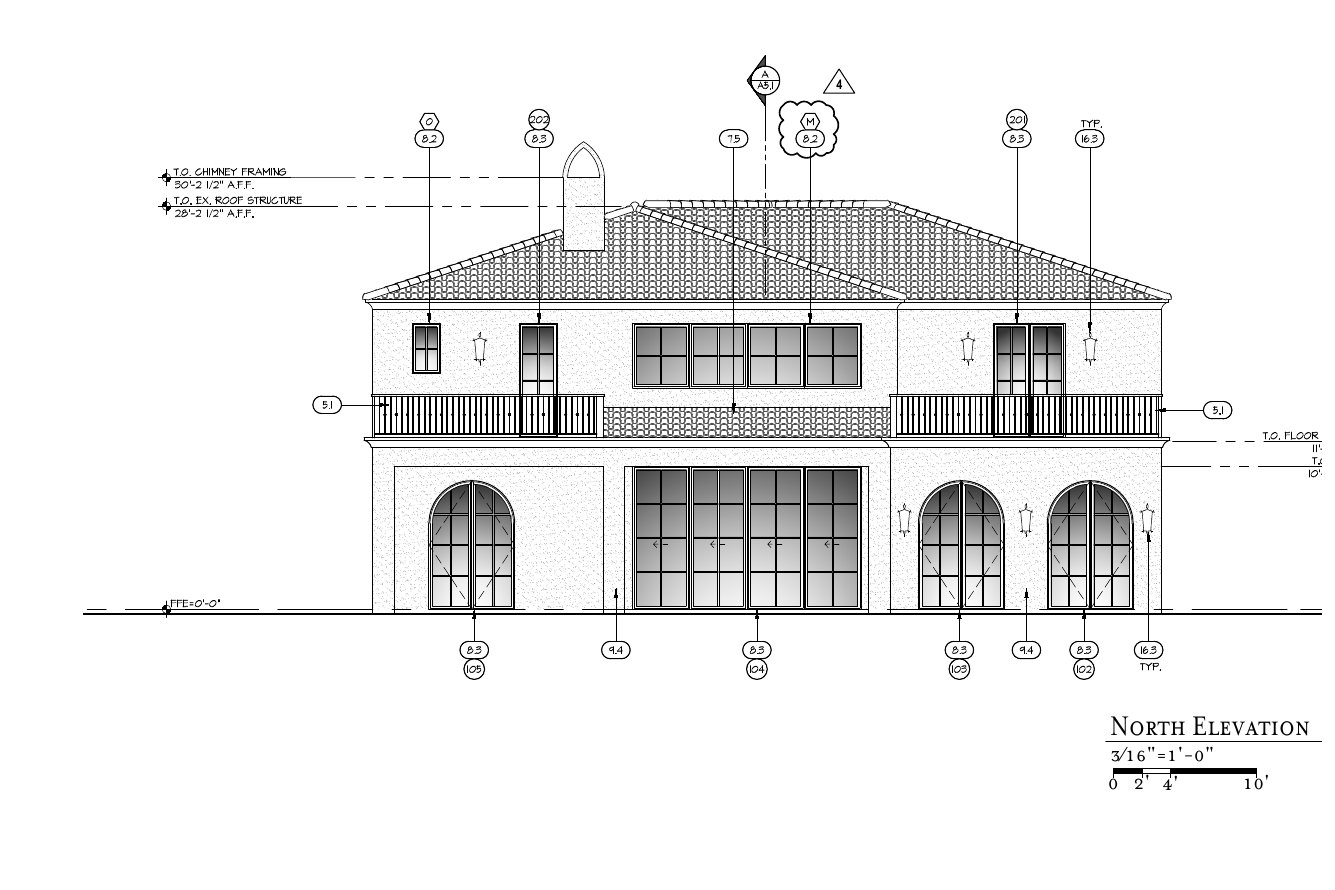
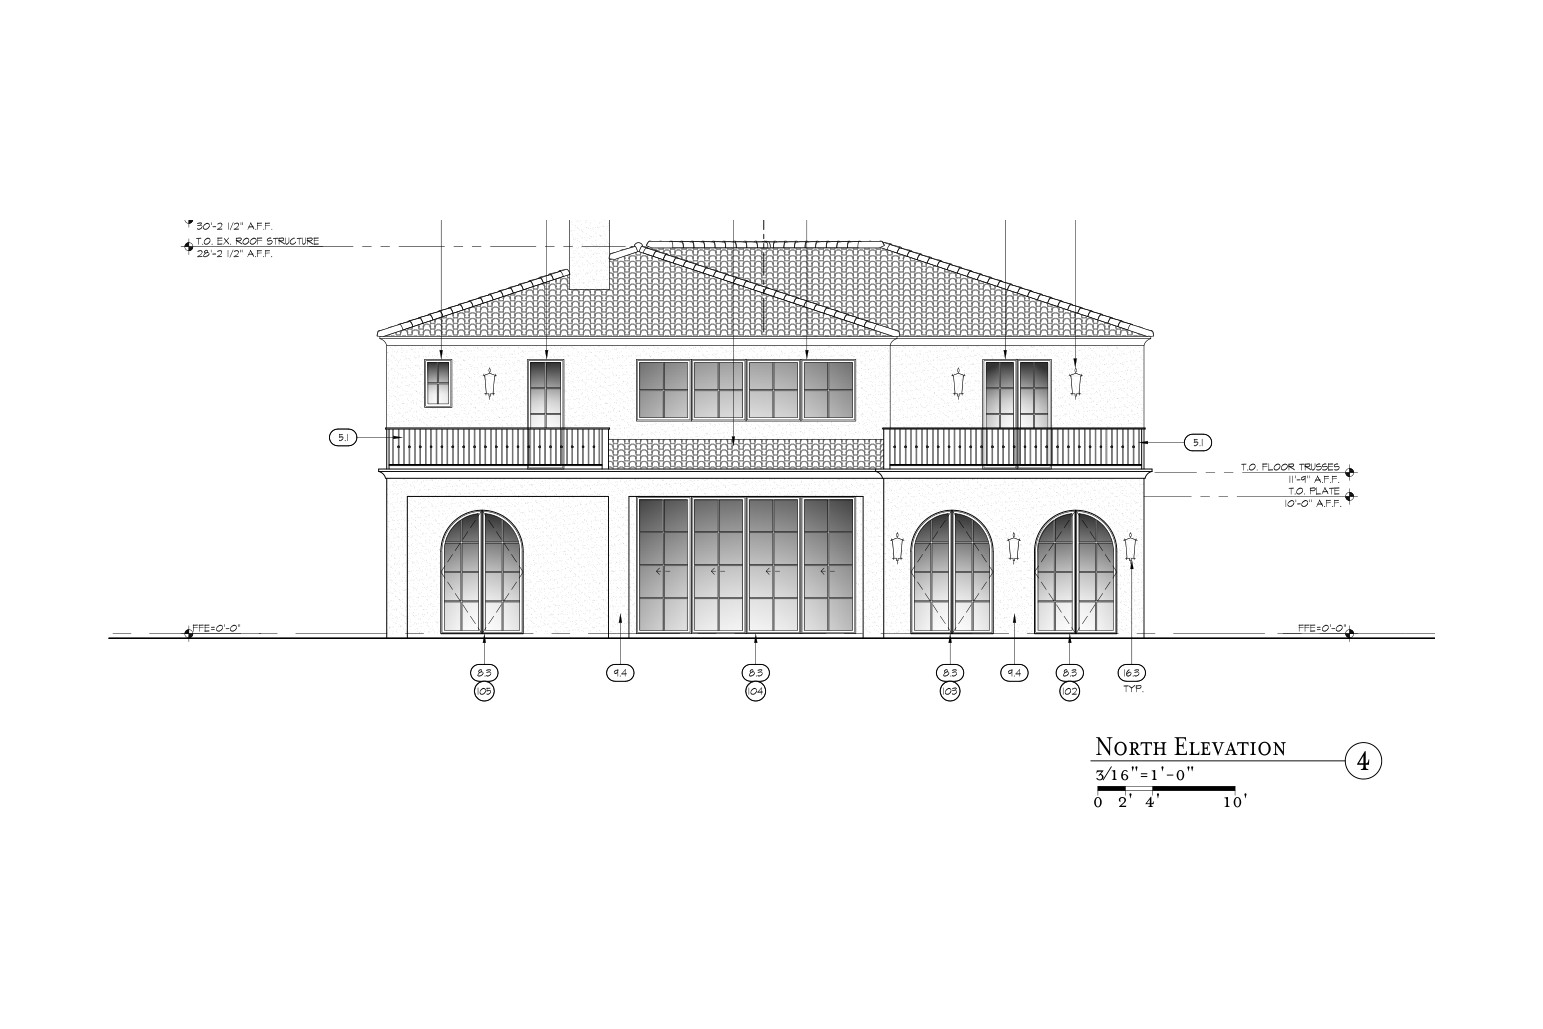
LOT71: recrop Lot 73 elevations + rewrite Lot 150 copy (#42)
- Re-render all four Lot 73 elevations from the source PDF with page-wide
  masks for the R312 code callout, the right-side title block, and the
  bottom drawing-keynotes block. Each image is auto-trimmed to its
  content bbox then centered on a 3:2 canvas with equal L/R and T/B
  padding (within 1px per axis).
- Rewrite the Lot 150 project copy from the realtor write-up: new summary
  and four-paragraph description covering location, architecture,
  kitchen/library, and primary suite + outdoor. Specs now include the
  home size (6,677 sq ft, 5 BD / 4.5 BA) and 957 sq ft ADU; subdivision
  updated to "Somerset Landmark".

diff --git a/lib/lot71/projects.ts b/lib/lot71/projects.ts
@@ -163,17 +163,20 @@ export const projects: Project[] = [
     city: "Gilbert",
     state: "AZ",
     summary:
-      "A new build on an acre lot in Somerset Phase 2. White brick, cedar-shake roof, stone chimney, flagstone courtyard, pool loggia with full-height sliders.",
+      "A furnished, turn-key European-inspired estate behind the gates of Somerset Landmark — 6,677 sq ft, 5 bedrooms, 4.5 baths, plus a 957-sq-ft guest house.",
     description: [
-      "A ground-up custom on an acre lot in Somerset Phase 2, Gilbert. Painted brick and limestone at the ground floor, cedar-shake roofs with copper gutters, dormered second story, oversized steel-and-glass arched entry flanked by brass carriage lanterns.",
-      "The plan opens on a long cross-axis: great room with vaulted beam ceiling and three arched steel sliders, kitchen with rift oak millwork, and a covered pool loggia that reads as a second living room. Primary suite sits on its own wing with a stone chimney and a view to the yard.",
+      "Set behind the gates of Somerset Landmark in Gilbert, on a corner lot with direct views of the nearby LDS temple. 6,677 square feet across five bedrooms and four and a half baths, plus a 957-square-foot guest house with its own kitchen and laundry. A collaboration with Cory Black Design and THELIFESTYLEDCO — furnished and turn-key when it listed.",
+      "Signature arches set the elevation. A flagstone path crosses a private courtyard with a fireplace — one of the more inviting front yards in the community. Inside, a gallery-style entry sets the scale, and the vaulted great room opens through three arched French doors to the back.",
+      "The kitchen centers on a furniture-style island with layered white oak cabinetry — a prep kitchen, walk-in pantry, and laundry run off the back, routed cleanly to the garage. A spacious game room overlooks the outdoor living area with its own fireplace and workspace. A library lines the bedroom corridor with built-in shelving, a rolling ladder, and integrated bench seating.",
+      "The primary suite reads as a private retreat: a statement fireplace, exposed white oak beams, a soaking tub, and a center-island closet. Out back: a château-style pool, outdoor kitchen, barrel sauna, and sport court. Natural materials — white oak, stone, flagstone — pair with Lutron HomeWorks whole-home lighting and Visual Comfort fixtures. A four-car garage with a trailer gate and parking for five more completes the property.",
     ],
     specs: [
       { label: "Status", value: "Sold · 2026" },
       { label: "Type", value: "New Build" },
       { label: "Address", value: "2635 E Los Altos Rd" },
-      { label: "Subdivision", value: "Somerset Phase 2" },
-      { label: "Lot", value: "~1 ac" },
+      { label: "Subdivision", value: "Somerset Landmark" },
+      { label: "Home", value: "6,677 sq ft · 5 BD / 4.5 BA" },
+      { label: "Guest house", value: "957 sq ft ADU" },
     ],
     hero: {
       kind: "image",
